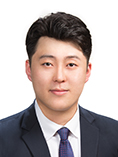
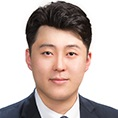
구성원 소개 수정
김재준 사진 크기 비율 수정
석사과정 대학원 과정으로 변경
이정우 박사과정으로 변경

diff --git a/public/homepage_team.html b/public/homepage_team.html
@@ -144,7 +144,7 @@
                     </div>
                 </div>
                 <div class="text-center">
-                    <h3 class="section-heading text-uppercase"></br>석사과정</br></br></h3>
+                    <h3 class="section-heading text-uppercase"></br>대학원 과정</br></br></h3>
                 </div>
                 <div class="team-member row align-items-center">
                     <div class="col-md-4">
@@ -152,14 +152,14 @@
                     </div>
                     <div class="col-md-8">
                         <h4>이정우</h4>
-                        <p class="text-muted">석사과정</p>
-                        <p>B.A. in KNPU</p>
+                        <p class="text-muted">박사과정</p>
+                        <p>M.E. in the Graduate School of Police Studies</p>
                         <p>Email: wjddn_1541@naver.com</p>
                         <button class="btn btn-dark btn-social mx-2" type="button" data-bs-toggle="collapse" data-bs-target="#moreInfo4" aria-expanded="false" aria-controls="moreInfo4"><i class="fas fa-angle-down"></i></button>
                     </div>
                     <div class="collapse additional-info" id="moreInfo4">
                         <h5>학력</h5>
-                        <p>2016 경찰대학 행정학사<br>2023 ~ 경찰대학 치안대학원 석사과정</p>
+                        <p>2016 경찰대학 행정학사<br>2025 ~ 경찰대학 치안대학원 공학석사</p>
                         <p>&nbsp;</p>
                         <h5>경력</h5>
                         <p>&nbsp;</p>
